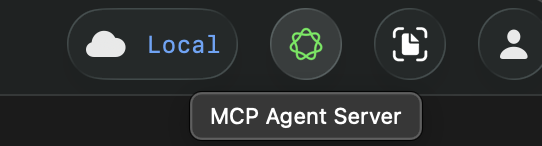
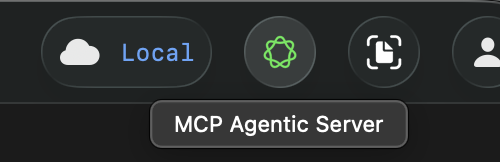
chore: minor read me update

diff --git a/README.md b/README.md
@@ -15,12 +15,12 @@
 
 **1. Open the Artery app**
 
-**2. Turn on the AI server**
+**2. Turn on the MCP Agentic Server**
 
-Click the MCP icon in the Artery toolbar. When it turns **green**, the AI server is on and ready.
+Click the MCP icon in the Artery toolbar. When it turns **green**, the MCP Agentic Server is on and ready.
 
 <p align="center">
-  <img src="images/ai-server-on.png" width="320" alt="Artery AI server turned on — green icon" />
+  <img src="images/ai-server-on.png" width="320" alt="Artery MCP Agentic Server turned on — green icon" />
 </p>
 
 > Red means off. Green means on.